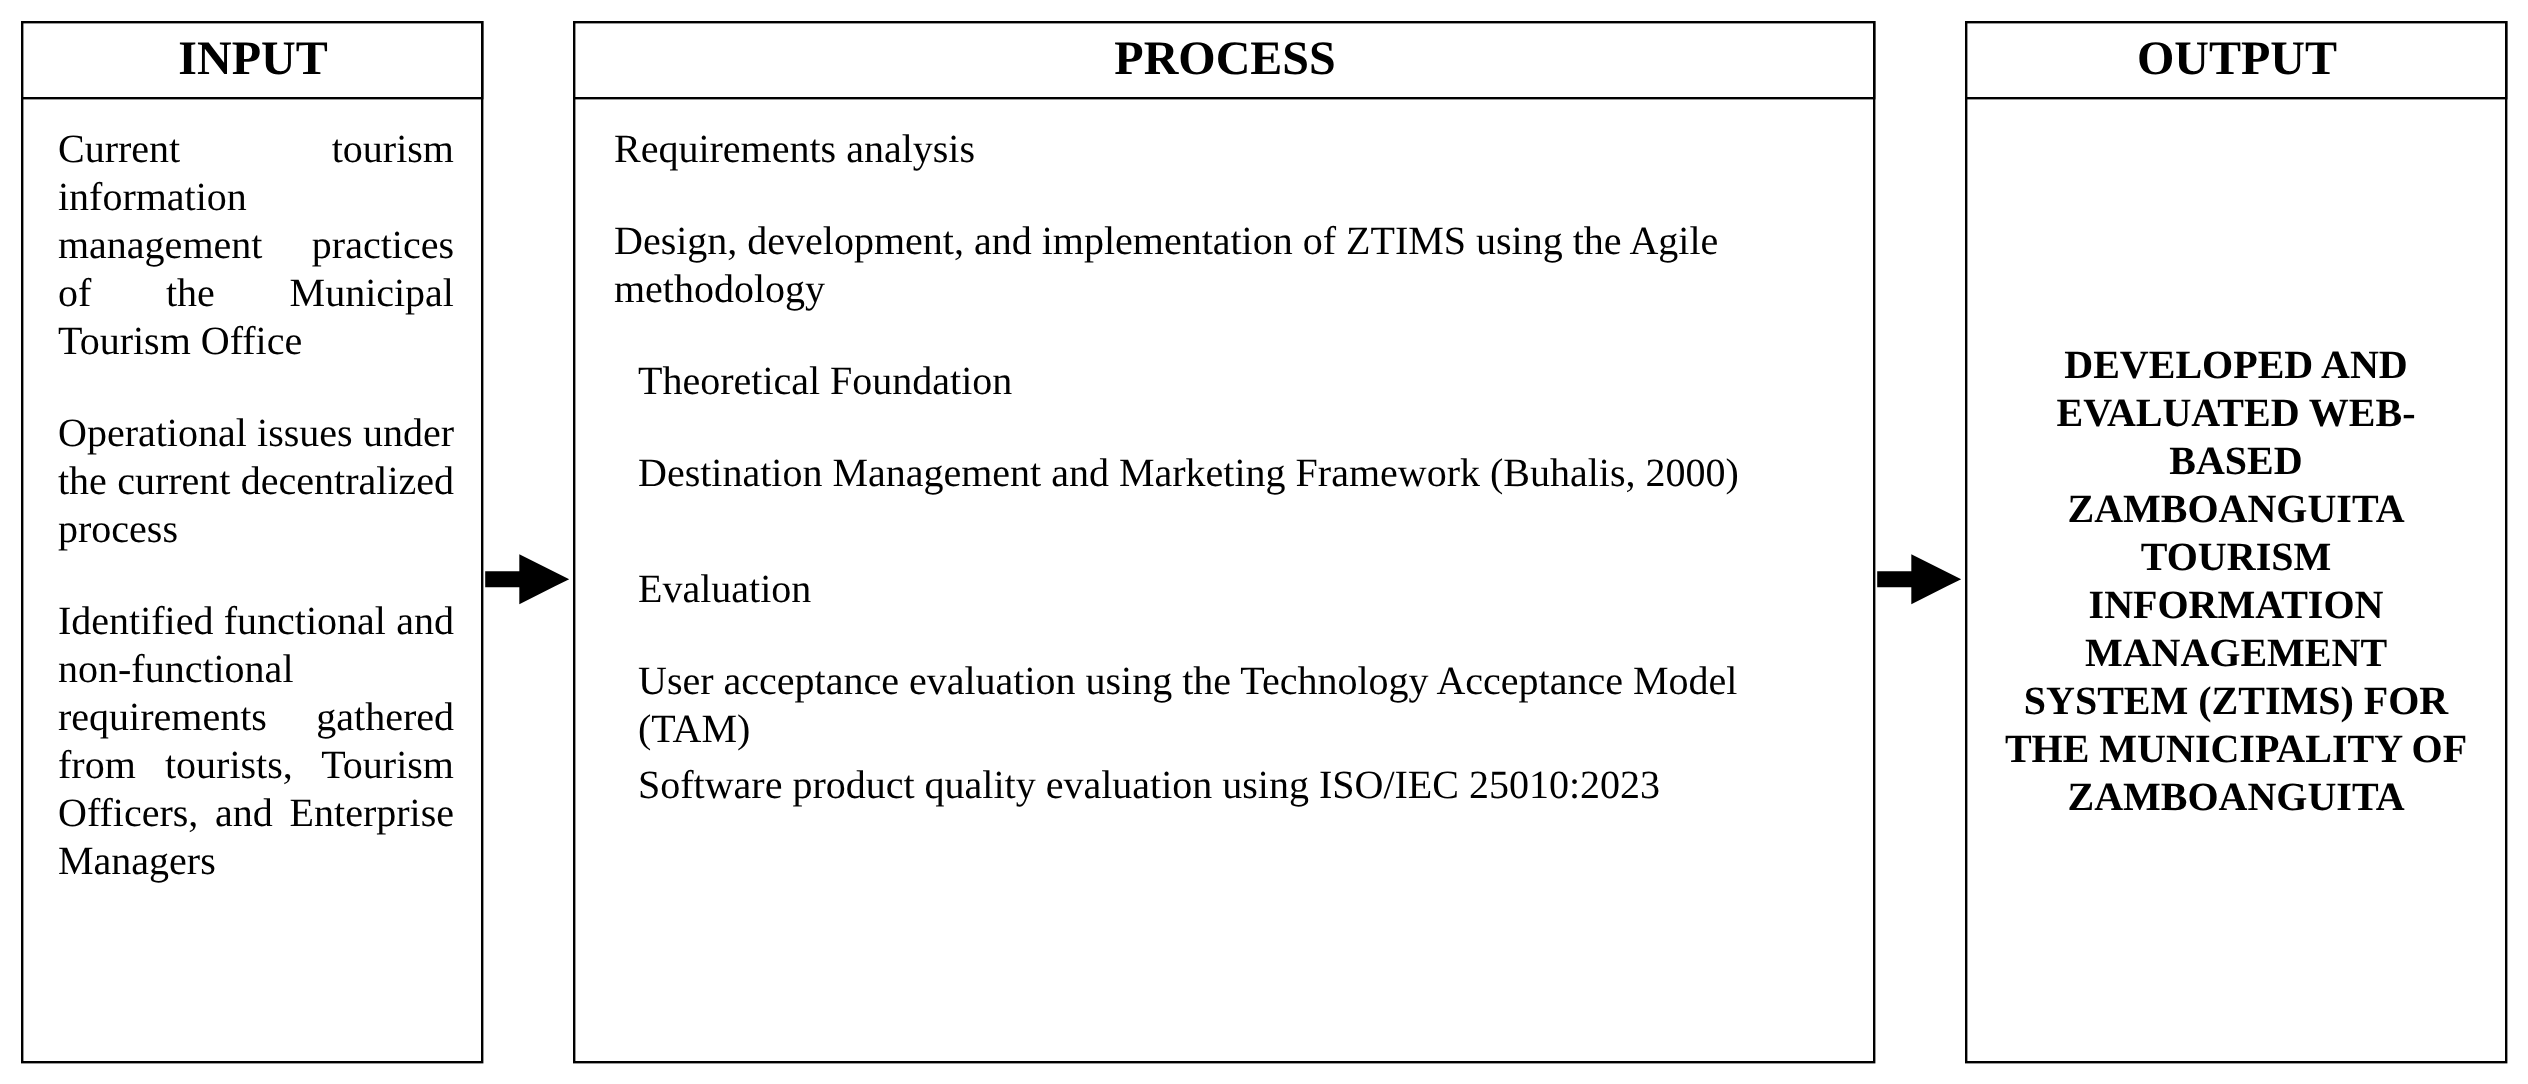
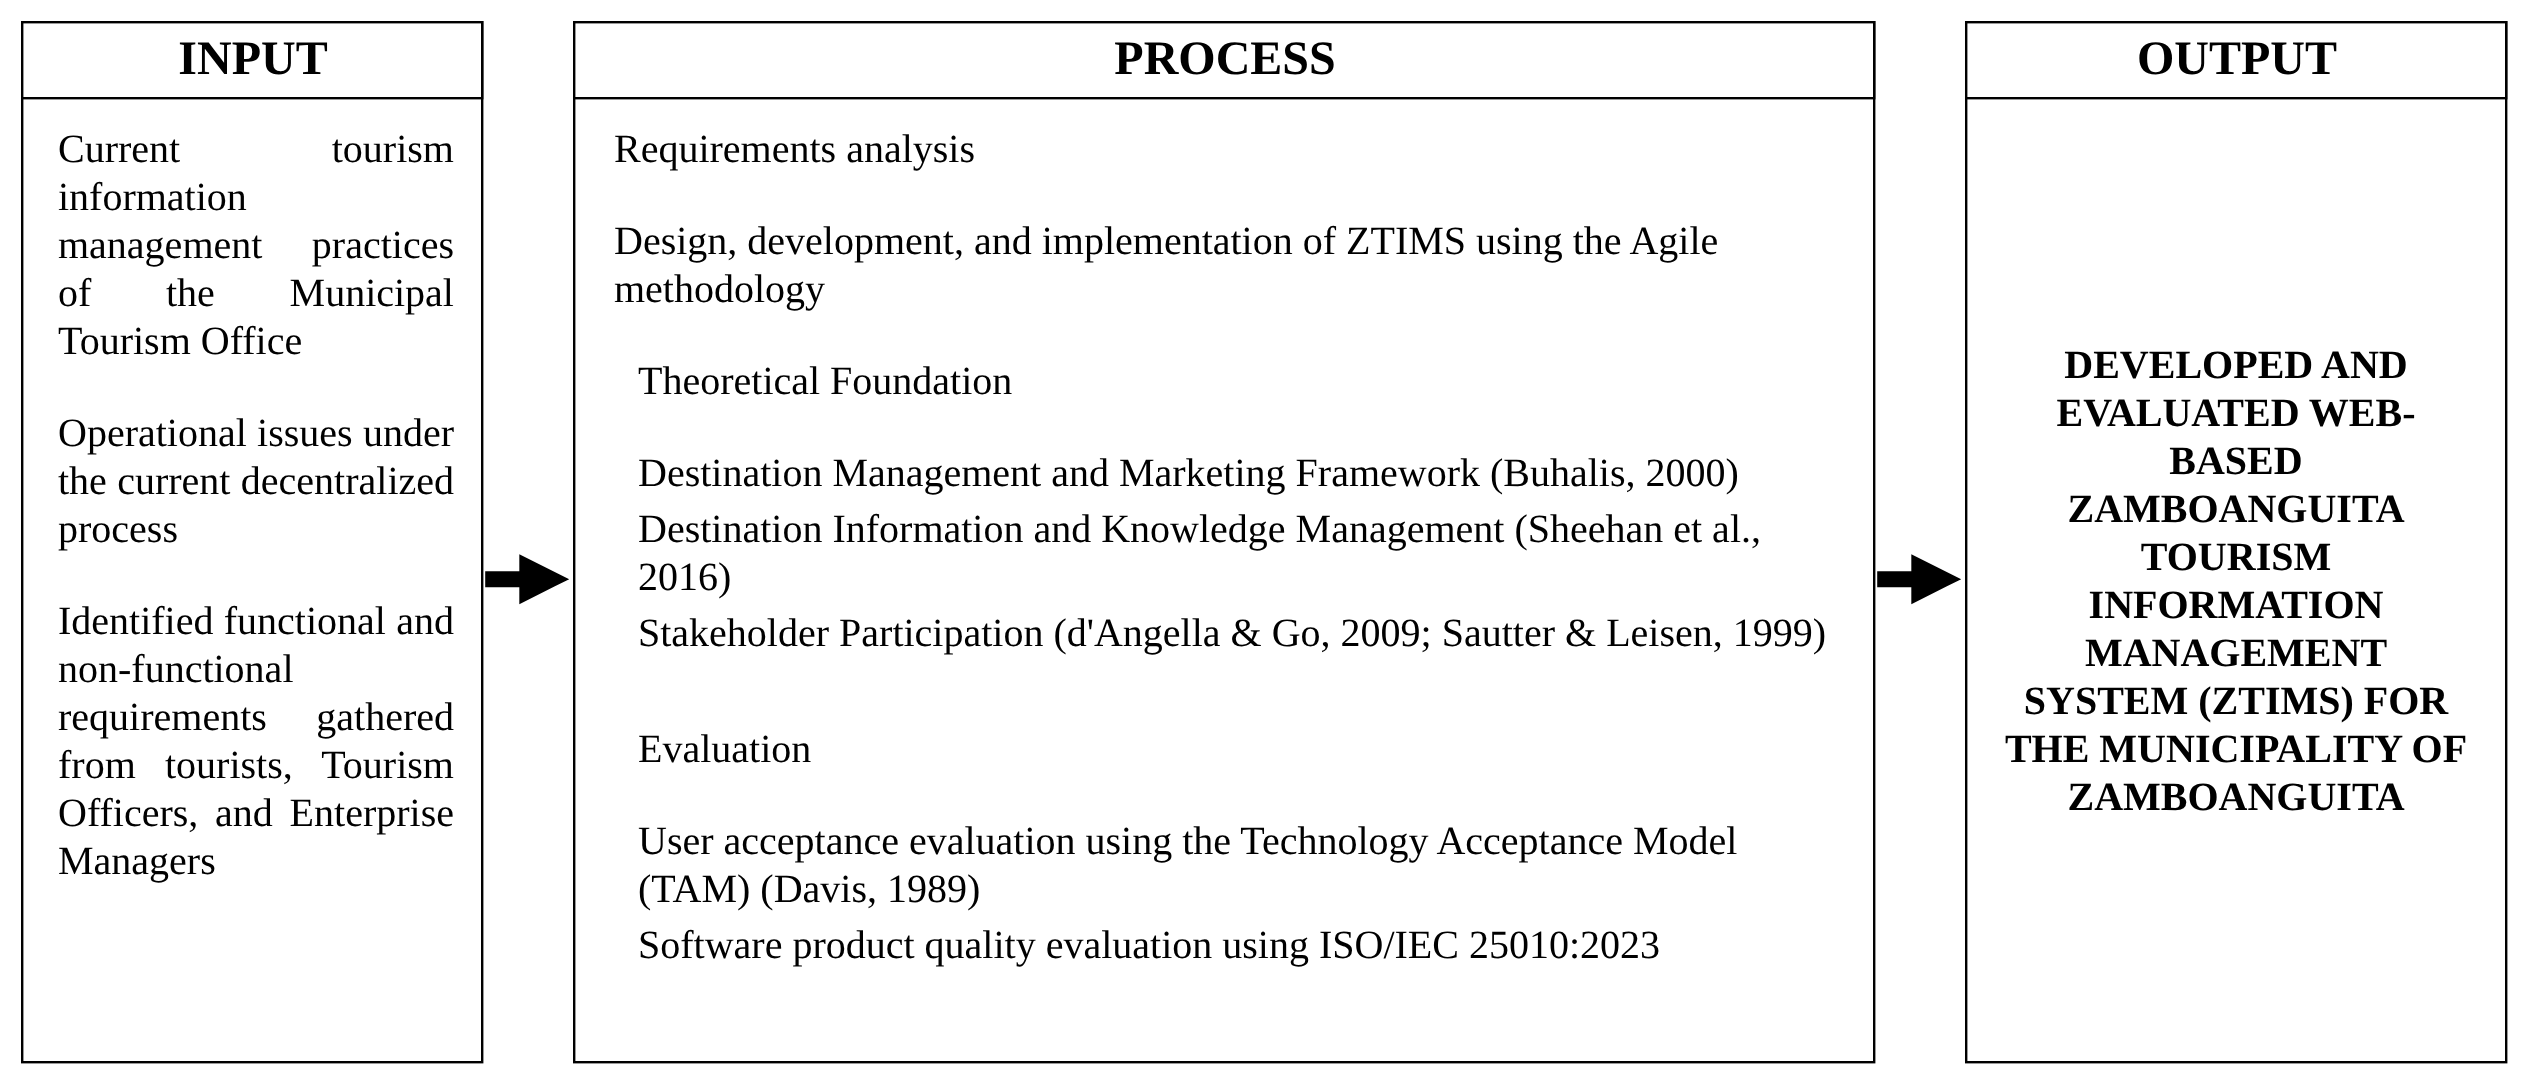
Conceptual framework: all three theories from the theoretical framework, TAM cited
Claude-Session: https://claude.ai/code/session_01KDNTRHj1XQUXovvpA1ypSB

Changed region(s): [[0.25, 0.4566, 0.7188, 0.8828]]

diff --git a/docs/MANUSCRIPT-NOTES.md b/docs/MANUSCRIPT-NOTES.md
@@ -10,7 +10,7 @@ where the manuscript already has them, and the answer to give the panel.
 **The change.** Figure (Conceptual Framework) in the school's Input–Process–Output
 layout: square boxes with a header row, solid arrows, Input as justified items,
 Process with "Theoretical Foundation" and "Evaluation" sub-heads, Output in bold
-capitals. Same content as before, minus the Agile cycle picture; "Establishment
+capitals. Process lists the three theories of the theoretical framework (Buhalis, 2000; Sheehan et al., 2016; d'Angella & Go, 2009 and Sautter & Leisen, 1999) and TAM (Davis, 1989); no Agile cycle picture; "Establishment
 Managers" now reads "Enterprise Managers".
 
 **Change in the manuscript:** replace the figure with
